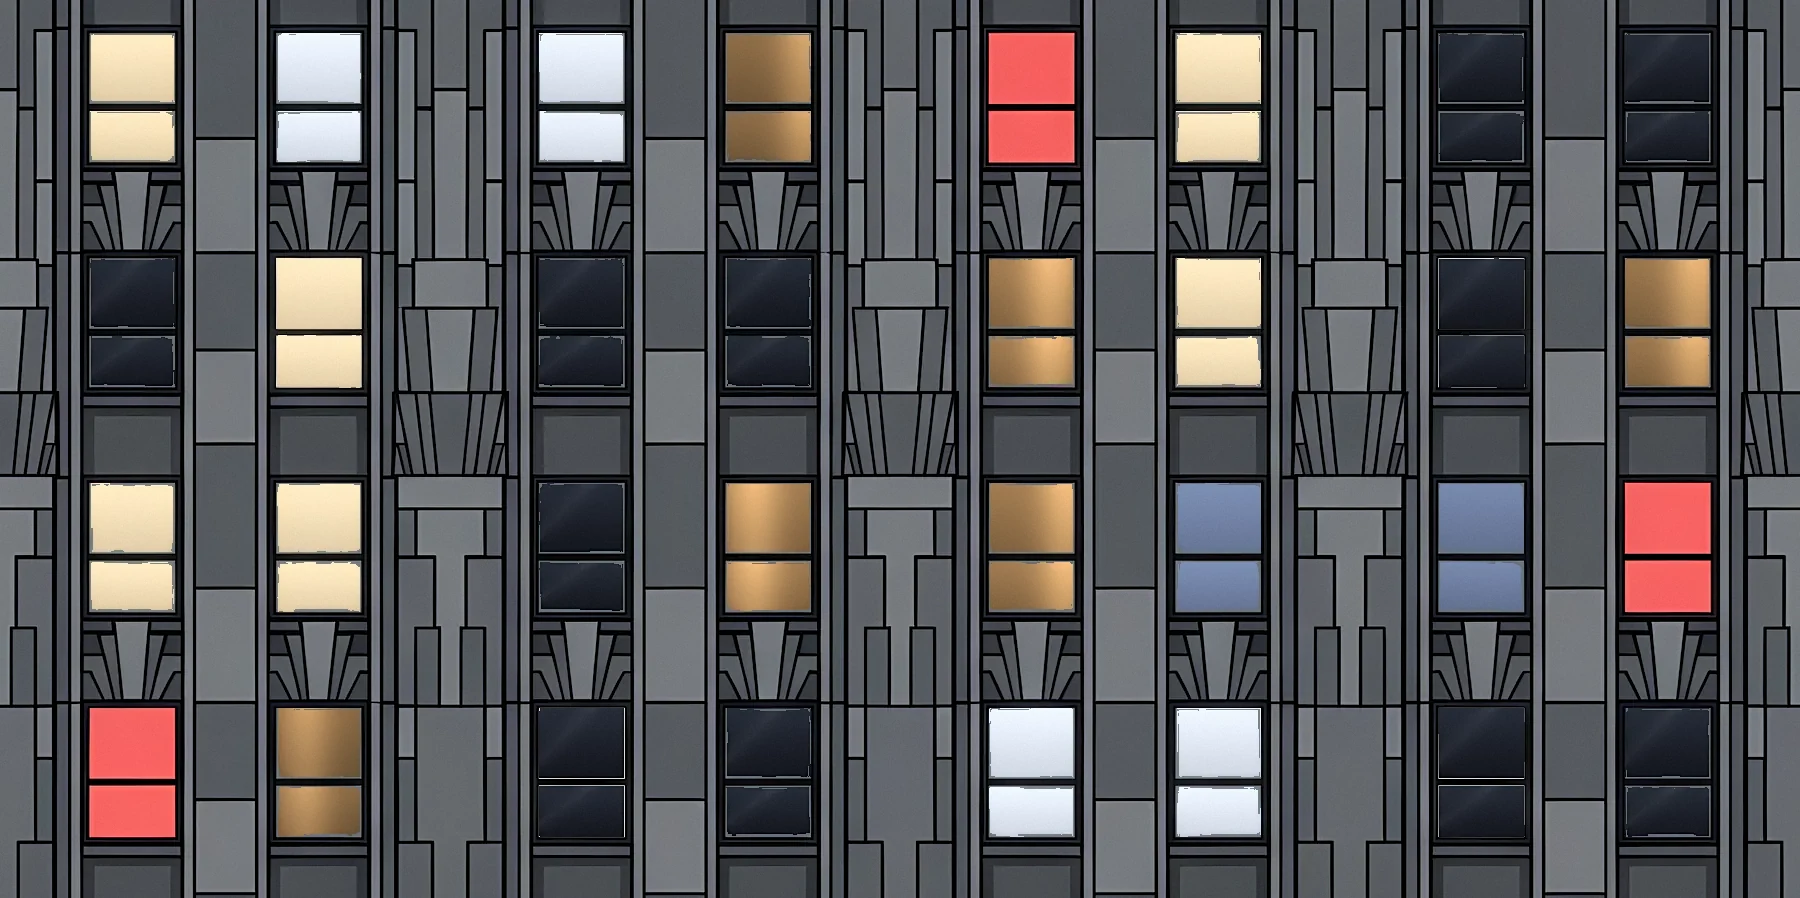
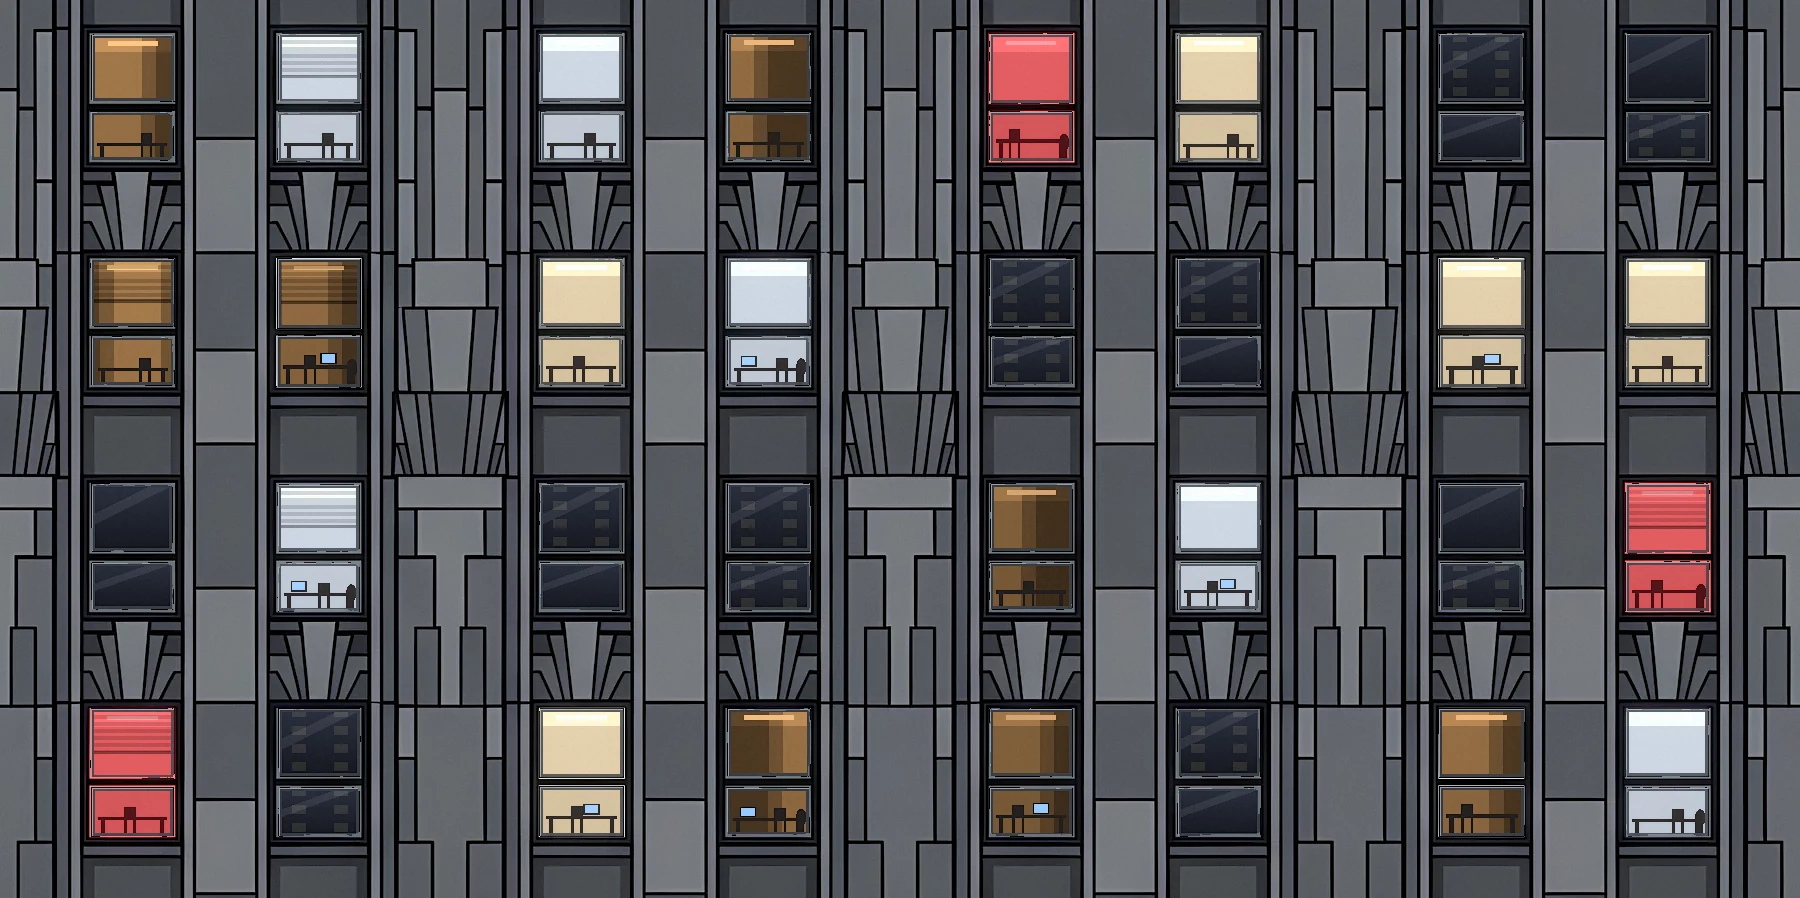
Real windows on the building you fall past

diff --git a/DESIGN.md b/DESIGN.md
@@ -353,7 +353,7 @@ Run after every design change; report results honestly.
   - **Floor:** pale beige stone tiles (the art's own joints kept), the tactile strip **yellow**, and **grip grooves** along the platform's edge strip (four thin lines converging on the vanishing point). The floor's reflections of the bands turn yellow too.
   - **Signs:** the painted board picture (`board.webp`) is retired: it never matched (brighter, crisper, a brass trim the station has nowhere; grading it didn't help). Real platform signs are drawn in the station's perspective and light: a **long slim LED board** (clock, LET US START THE GAME scrolling, JN) on two rods **bolted to a steel cross beam** in the ceiling (a box beam from the light strip's housing to the wall, plates and bolts where the rods meet it); behind it a backlit **yellow EXIT** sign and a white **THE CITY** sign with an up arrow and our red JN tile. Arrows are drawn, never characters. Gemini, old vs new, both orders 4 of 4: real platform signage 7 vs 3-4, attached to the roof 7 vs 4-5.
   - **Guardrails:** navy steel barrier sections on the edge strip, each one **bent tube with rounded top corners** whose two posts are set into the floor (bolted feet), a **bottom rail joining the posts**, and **exactly five vertical bars** from the bottom rail up into the top rail (John: "only 5 bars"), a highlight along the top, a floor shadow. They sit on a layer **above the train** (`.st-front`), so the train passes behind them, as on a real platform.
-- **City windows (Nov 21, John: "make the city building windows look like actual windows... they're hallucinating").** Three rebuilds were tried and judged blind against the current windows (both orders): clean rectangles aligned to each facade (lost 5 of 6: the rectangles disagreed with the painted building lines), the painter's outlines with rebuilt interiors (frames, ceiling light, furniture, blinds), and box-filled outlines (lost 6 of 6, "floating tiles"). None shipped; the windows stay as they were. A real fix needs the city repainted by the image model, whose edit route fails from here (it answers an image type the proxy can't take).
+- **City windows (Nov 21, John: "make the city building windows look like actual windows... they're hallucinating").** Three rebuilds were tried and judged blind against the current windows (both orders): clean rectangles aligned to each facade (lost 5 of 6: the rectangles disagreed with the painted building lines), the painter's outlines with rebuilt interiors (frames, ceiling light, furniture, blinds), and box-filled outlines (lost 6 of 6, "floating tiles"). None shipped; the windows stay as they were. A real fix needs the city repainted by the image model, whose edit route fails from here (it answers an image type the proxy can't take). **Then (John: "fix city windows") the building you fall past in THE DROP was fixed instead, where the windows are big and close:** its windows were flat colour fills (cream, bronze smears, flat salmon red). Each is rebuilt as a real window in the art's toon style (`facade_real.py`): an inset aluminium frame catching the light, and a ROOM behind the glass, the upper pane the ceiling with its light fitting and back wall, the lower pane the furniture in silhouette (desk, chair, a glowing monitor, a plant); some with blinds half down; dim rooms lit by one lamp in hard cel steps; empty offices dark glass with a faint sheen and the next tower's windows reflected; the red signal windows are rooms lit by a red neon. A window's two panes are one room; the repeat stays seamless. Gemini, old vs new, both orders, whole and close-up: 4 of 4 for the new (real windows 7 vs 4, out of place 3 vs 6). The far city keeps its windows (it judged better than every rebuild).
 - **The departure board (Nov 19, John: "a train sign where it describes a stop... LET US START THE GAME, not static, moving like the billboard from the right side to the left", with a reference of a hanging LED board).** `src/fx/station.js` (`SIGN_SPOTS`, `signHTML`, `signClock`), styles in `backdrop.css` (`.ss-*`). A lit LED board hung from the ceiling on two rods, angled a little along the platform: the top row scrolls **LET US START THE GAME** right to left in amber LED, seamlessly (one composited `translateX` loop, 9 s); the bottom row shows the **visitor's own time** in green (the colon blinks; checked every 10 s, written only when the minute turns) and our line code **JN** in red. A fixed grid of dark gaps over each row makes the light read as **LED dots** while the text slides under it. No mascot on top (the reference had the game's cat; ours is sprayed on the pillar). The line is a **John-approved homage** (like TAKE YOUR TIME). **Placement:** in the platform art's own pixels (it moves with the camera), at the first of four spots (right of the light strip, a size smaller lower down, then left of the strip) that is wholly on screen and **clear of the name's letters, the calendar, the contact card and the top bar** (+22 px for the camera's push-in), measured from the layer's real box on screen (it sits inside the camera's slow zoom: computing from the art math alone put it under the contact card). It decides once the title has settled (fonts in), fades in, and only moves when the screen size changes or the fit guard rearranges the title; none fits, no board (phones held upright, 1024x768). Proven on 10 screen shapes; a test checks the text, the scroll direction, the clock, no overlap and the upright-phone case. Steady with reduced motion.
 - **Graffiti on the platform (Nov 19, John: "on the right side... a Persona 5 graffiti design where it says TAKE YOUR NETWORK, and a cat graffiti at the end").** An original piece (no game logo, mascot or lettering) on a pillar's front face on the right (a flat face square to the camera, so no perspective needed). **It is sprayed, not typed (Nov 19, John: "not just a font pasted onto the pillar... like someone shook a spray can and wrote it")**: `tools/draw-graffiti.mjs` paints it droplet by droplet into `public/assets/film/graffiti.webp` (304 x 920, 4x the face, ~100 KB, loaded with the station layer in idle time): every letter is a hand-drawn stroke with an unsteady hand (each letter its own tilt, size and baseline, its points nudged), every stroke a wet core plus thousands of scattered droplets and a faint overspray mist, more paint where the hand slows at corners and stroke ends, runs of paint dripping from those heavy spots, spatter where the freshly shaken can first fires. Two passes like a real piece (a black shadow sprayed first, red letters over it, a few white highlight flicks), then the cat doodled in white: sitting, hooked tail, whiskers, one red star eye, two drips. Seeded, so it is the same every time; edit and re-run the tool to change it. Blind A/B against the earlier font version (Gemini, random order, 5 rounds): real spray paint 5/5, less like a pasted font 5/5, both readable. Never go back to font text with an SVG filter for graffiti. **Placement follows the screen:** pillar 2 (76 x 230 art px) when the screen shows it whole (laptops, desktops), else a pillar further in, scaled to fit (phones); a test checks it is inside the screen. The big front pillar was tried first and rejected: it is cut off at the right edge even on 16:9. On desktops the CONNECT banner and the ATL poster cover part of it on the title; the train's wind blows them away and reveals it.
 - **The tower's lights are alive (Nov 19, John: "amplify it, make it actually look like billboard lights"; "have them blink... when it turns off it's a black ball that looks like a bulb").** The two LED lines keep their design and get real LED light: a tight glow round every lit dot, a wide red-pink spill onto the screen face, warm LED white, a faint electrical flicker and a light sweep gliding across each screen now and then. The 23 rooftop aviation lights painted in the city art (found by their red glow; wall and street reflections left out) each get a real bulb over the painted dot: lit, a hot red lens with a highlight and a halo; dark, a black glass ball with a glint (a soft shadow hides the painted glow); each on its own beat. Steady on with reduced motion.
